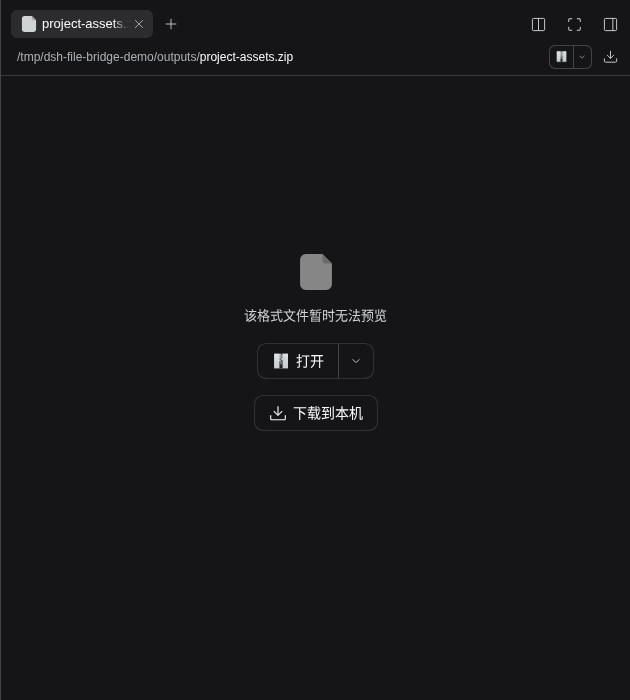
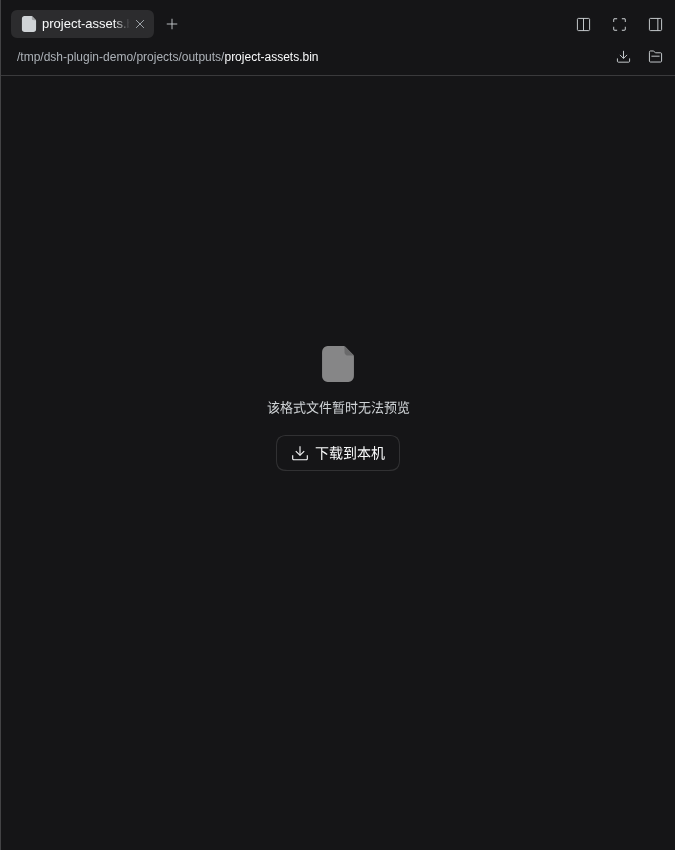
Refresh bilingual documentation and current interface screenshots

diff --git a/README.en.md b/README.en.md
@@ -11,22 +11,22 @@ The interface uses DSH native i18n and follows language changes immediately. Chi
 ## Features
 
 - **Toolbar downloads:** open a file and use the download icon in the preview toolbar.
-- **Download without a preview:** ZIP, XPI, and other unsupported formats get a download button in the preview placeholder.
+- **Download without a preview:** Unsupported formats get a download button in the preview placeholder.
 - **Original contents and filenames:** binary files, Chinese filenames, spaces, and streamed large-file downloads.
 - **Native previews:** documents, images, and spreadsheets continue to use Harness's existing viewers.
 - **Native styling:** buttons, icons, tooltips, and light/dark themes match Harness.
 
 ### Download files
 
-Choose **下载到本机 (Download to this device)** even when the file cannot be previewed.
+Choose **Download to this device** even when the file cannot be previewed.
 
-![Download an unsupported file to the current device](https://raw.githubusercontent.com/ousiqwq/dsh-file-bridge/main/docs/images/download.png)
+![Download an unsupported file to the current device](https://raw.githubusercontent.com/ousiqwq/dsh-file-bridge/main/docs/images/download.en.png?v=0.2.1)
 
 ### Preview and download
 
 Read a document in its native viewer and download it from the toolbar.
 
-![Native Markdown preview and toolbar download action](https://raw.githubusercontent.com/ousiqwq/dsh-file-bridge/main/docs/images/preview.png)
+![Native Markdown preview and toolbar download action](https://raw.githubusercontent.com/ousiqwq/dsh-file-bridge/main/docs/images/preview.en.png?v=0.2.1)
 
 ## One-command installation
 
@@ -41,7 +41,7 @@ Enable the plugin in the plugin manager and refresh the page. If the running ins
 ## Usage
 
 1. Click a file link in a conversation or open a file from the native file list.
-2. Click the toolbar's download icon or **下载到本机** in the preview placeholder.
+2. Click the toolbar's download icon or **Download to this device** in the preview placeholder.
 3. Use your browser's downloads list to view progress, cancel, retry, or open the downloaded file.
 
 Your browser controls the save location. To use a local application, open the downloaded file from your browser or file manager. Harness still controls its native **Open** action, which may open a server-side application in remote deployments.

diff --git a/README.md b/README.md
@@ -11,7 +11,7 @@
 ## 功能
 
 - **预览工具栏下载**：打开文件后，点击右侧工具栏的下载图标。
-- **无法预览的文件也能下载**：ZIP、XPI 等文件的提示区提供下载按钮。
+- **无法预览的文件也能下载**：无法预览的文件在提示区提供下载按钮。
 - **保留文件内容与名称**：支持二进制文件、中文名、空格与大文件流式传输。
 - **原生预览继续使用**：文档、图片、表格等沿用 Harness 已有的预览能力。
 - **原生界面样式**：按钮、图标、提示和深浅主题与 Harness 保持一致。
@@ -20,13 +20,13 @@
 
 打开不支持预览的文件后，可直接选择 **下载到本机**。
 
-![无法预览的文件也可下载到当前设备](https://raw.githubusercontent.com/ousiqwq/dsh-file-bridge/main/docs/images/download.png)
+![无法预览的文件也可下载到当前设备](https://raw.githubusercontent.com/ousiqwq/dsh-file-bridge/main/docs/images/download.png?v=0.2.1)
 
 ### 预览与下载
 
 在原生预览中阅读文档，同时使用顶部工具栏的下载按钮。
 
-![原生 Markdown 预览与工具栏下载按钮](https://raw.githubusercontent.com/ousiqwq/dsh-file-bridge/main/docs/images/preview.png)
+![原生 Markdown 预览与工具栏下载按钮](https://raw.githubusercontent.com/ousiqwq/dsh-file-bridge/main/docs/images/preview.png?v=0.2.1)
 
 ## 一键安装
 
